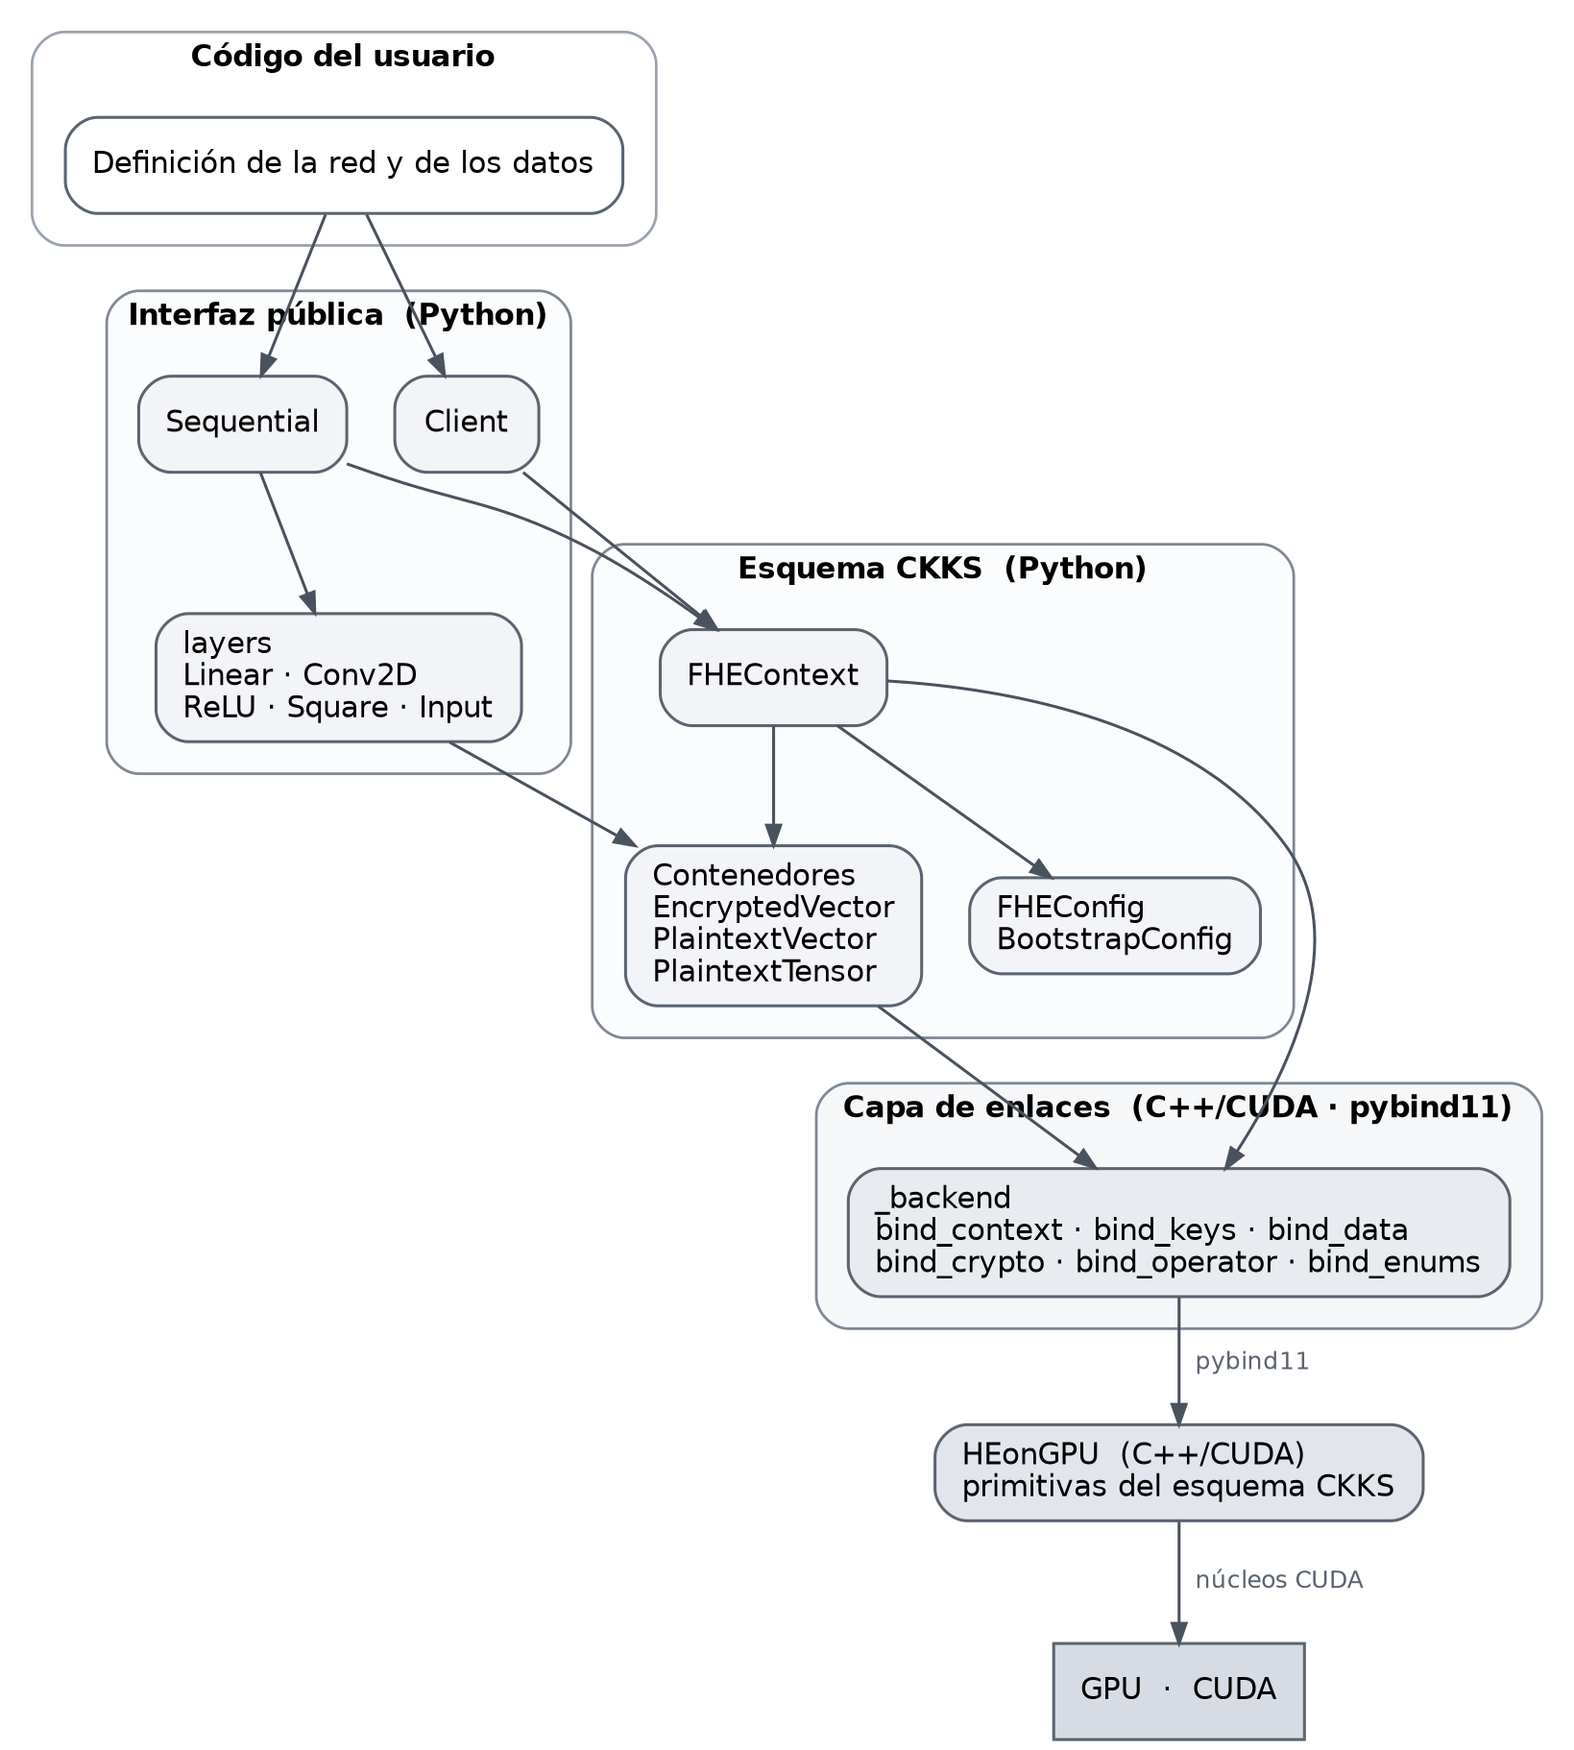
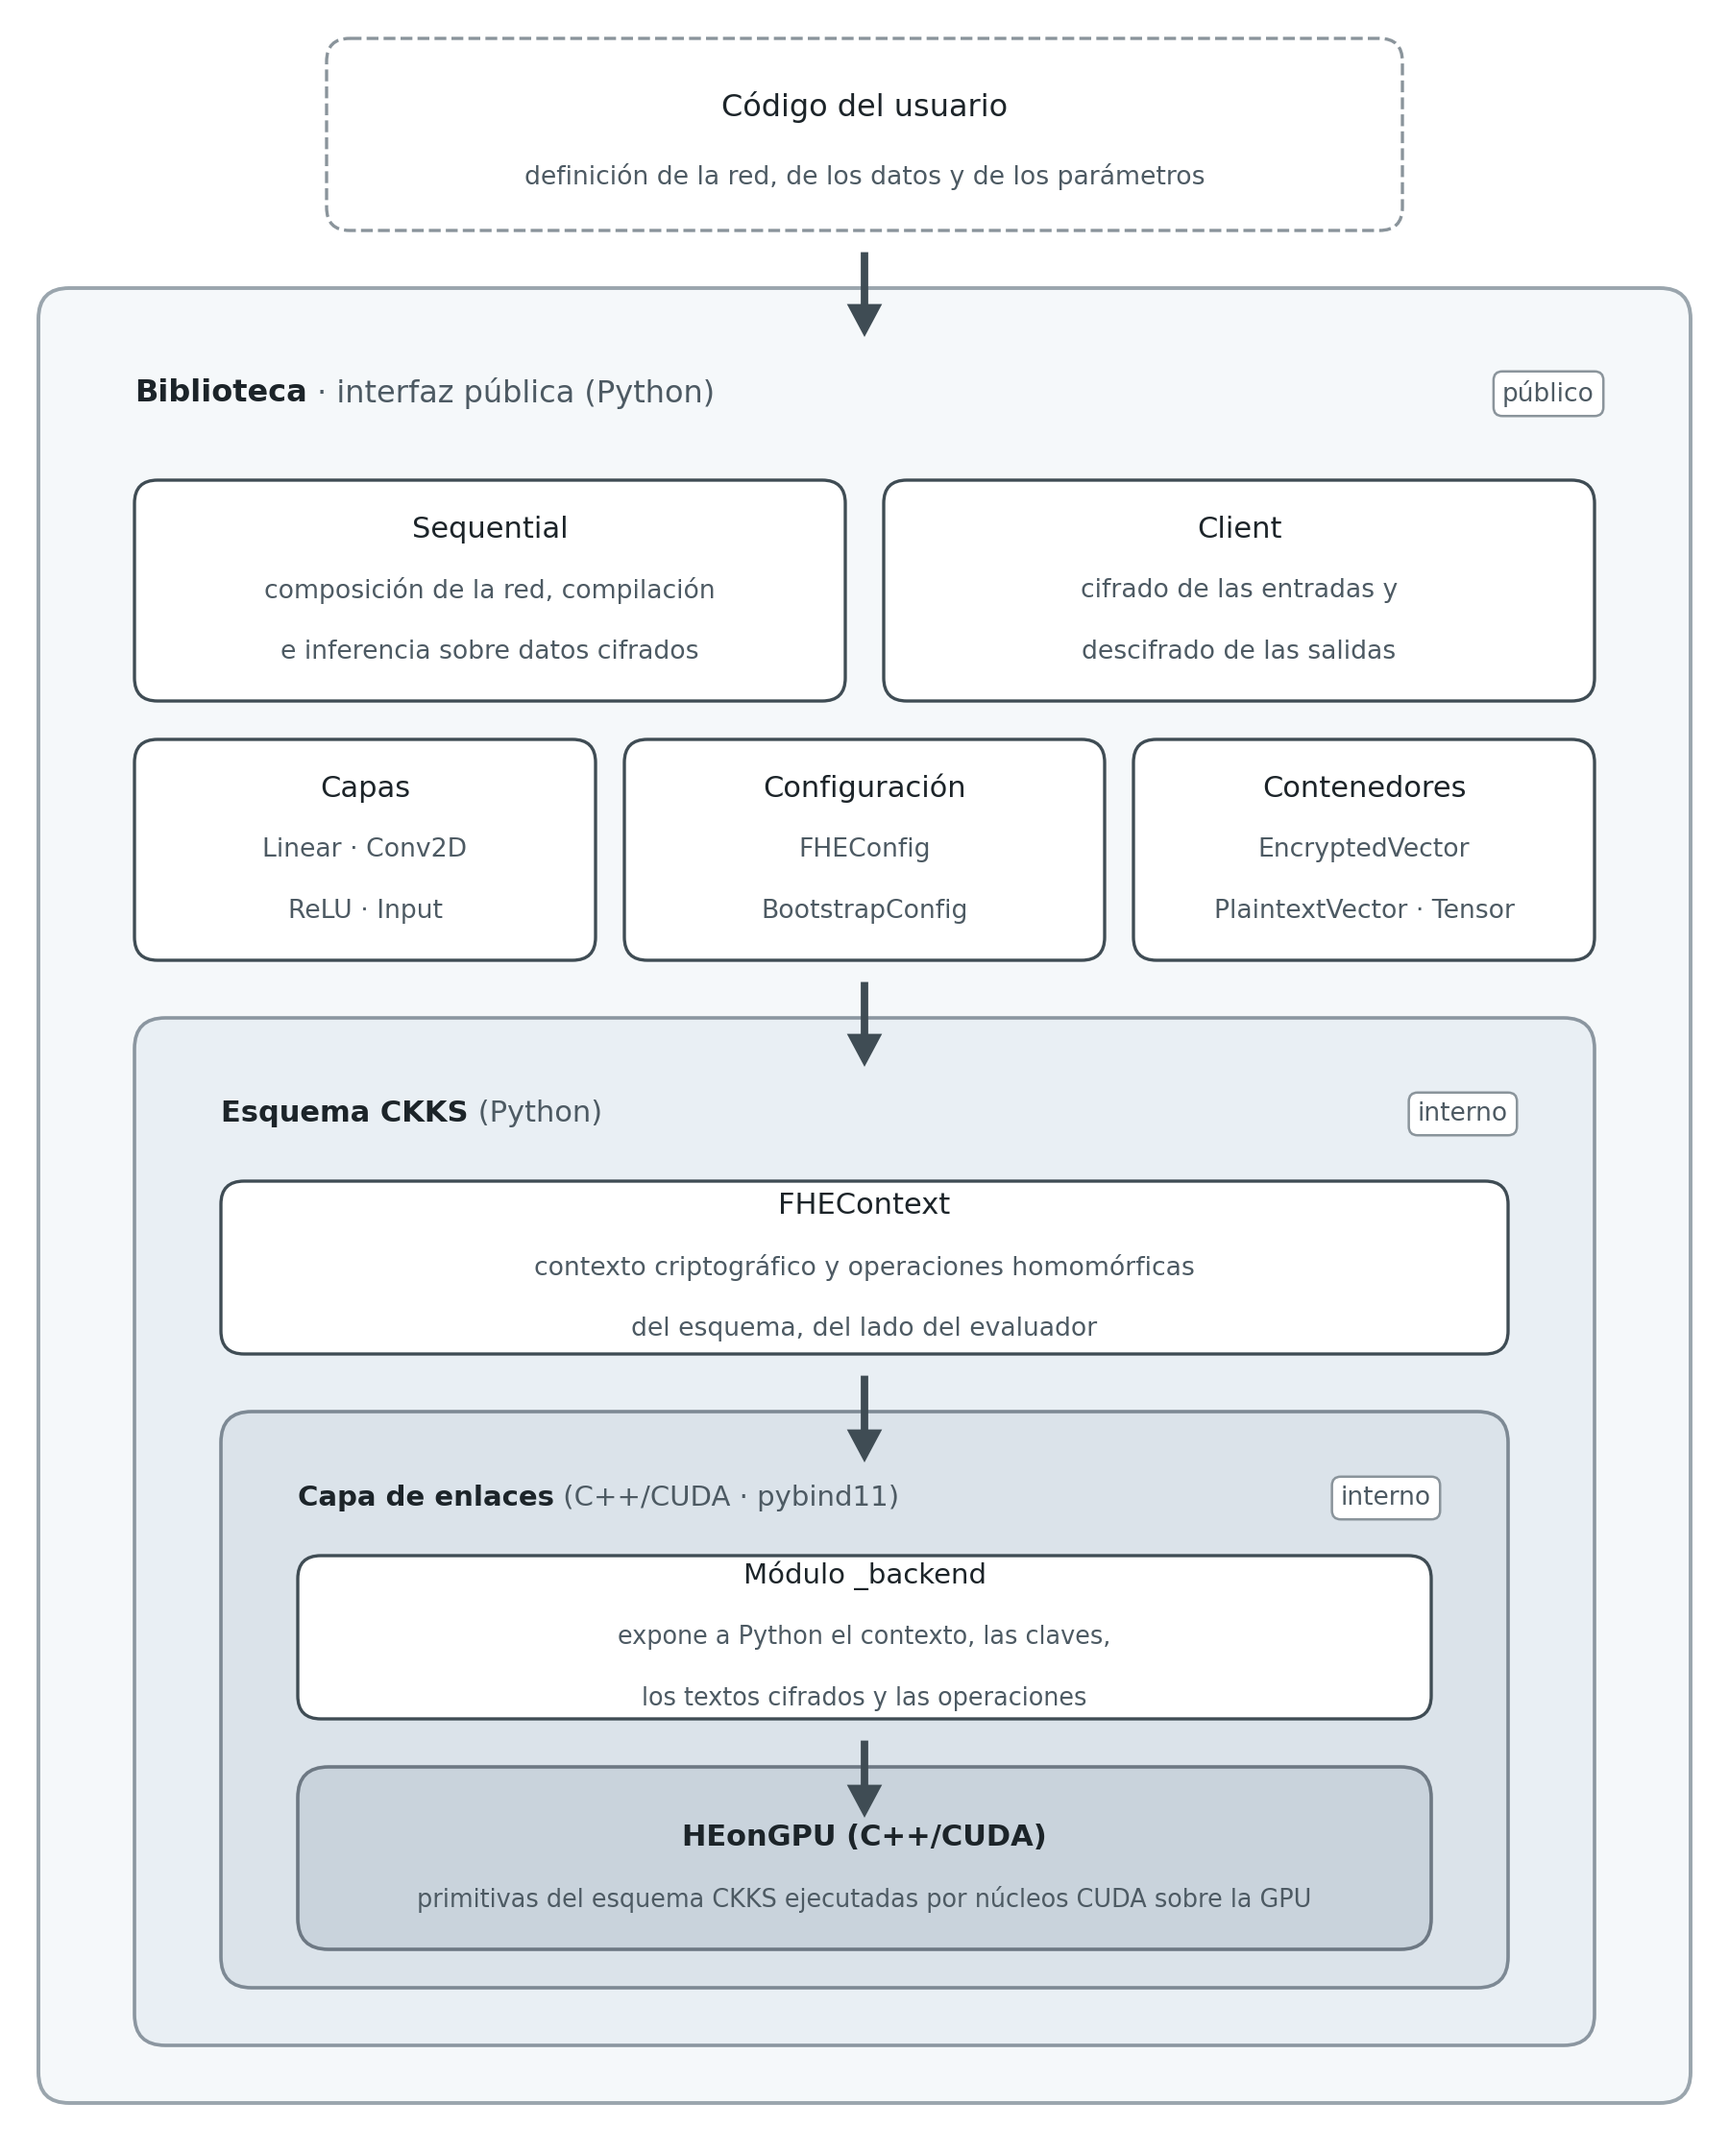
updates until evaluation methodology

diff --git a/doc/thesis.tex b/doc/thesis.tex
@@ -15,6 +15,7 @@
 %\usepackage{algorithm_spa}
 \usepackage{algpseudocode}
 \usepackage[footnotesize]{subfigure}
+\usepackage{float}
 \usepackage{makeidx}
 \usepackage[hidelinks]{hyperref}
 \usepackage[all]{hypcap}
